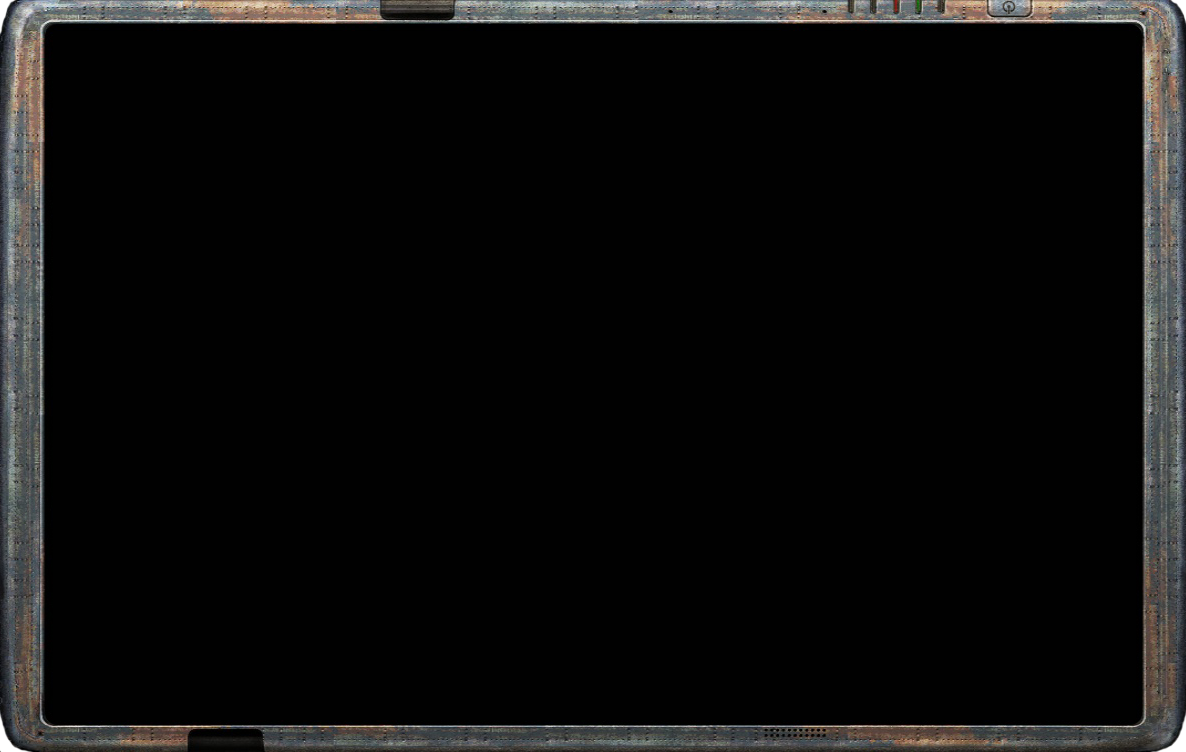
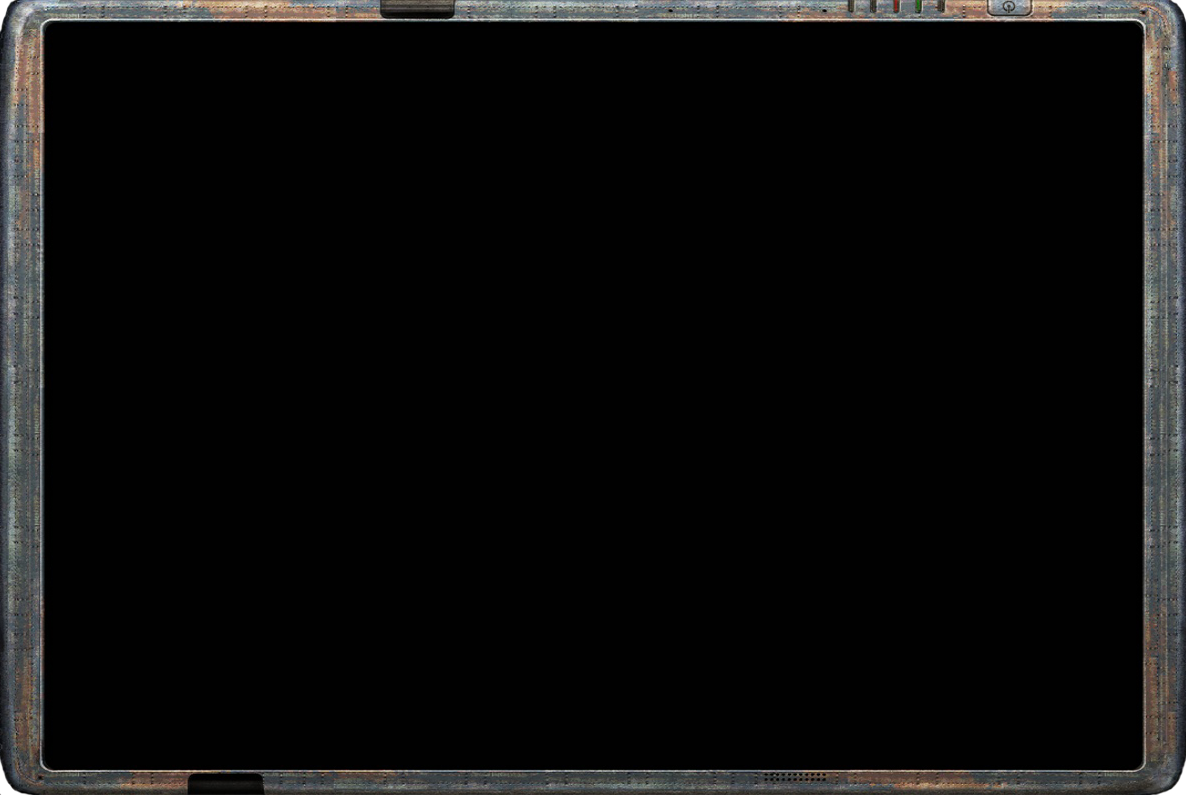
s

Changed region(s): [[0.0, 0.0, 1.0, 1.0]]

diff --git a/pda/css/style.css b/pda/css/style.css
@@ -42,11 +42,11 @@ a {
 	max-width: 1185px;
 	height: 100%;
 	/* height: 750px; */
-	background: url(../img/pda-border.jpg);
+	background: url(../img/pda.png);
 	/* background: rgb(65, 65, 65); */
 	margin: auto;
 	margin-top: 100px;
-	padding: 25px 40px;
+	padding: 35px 55px;
 	border-radius: 20px;
 }
 
